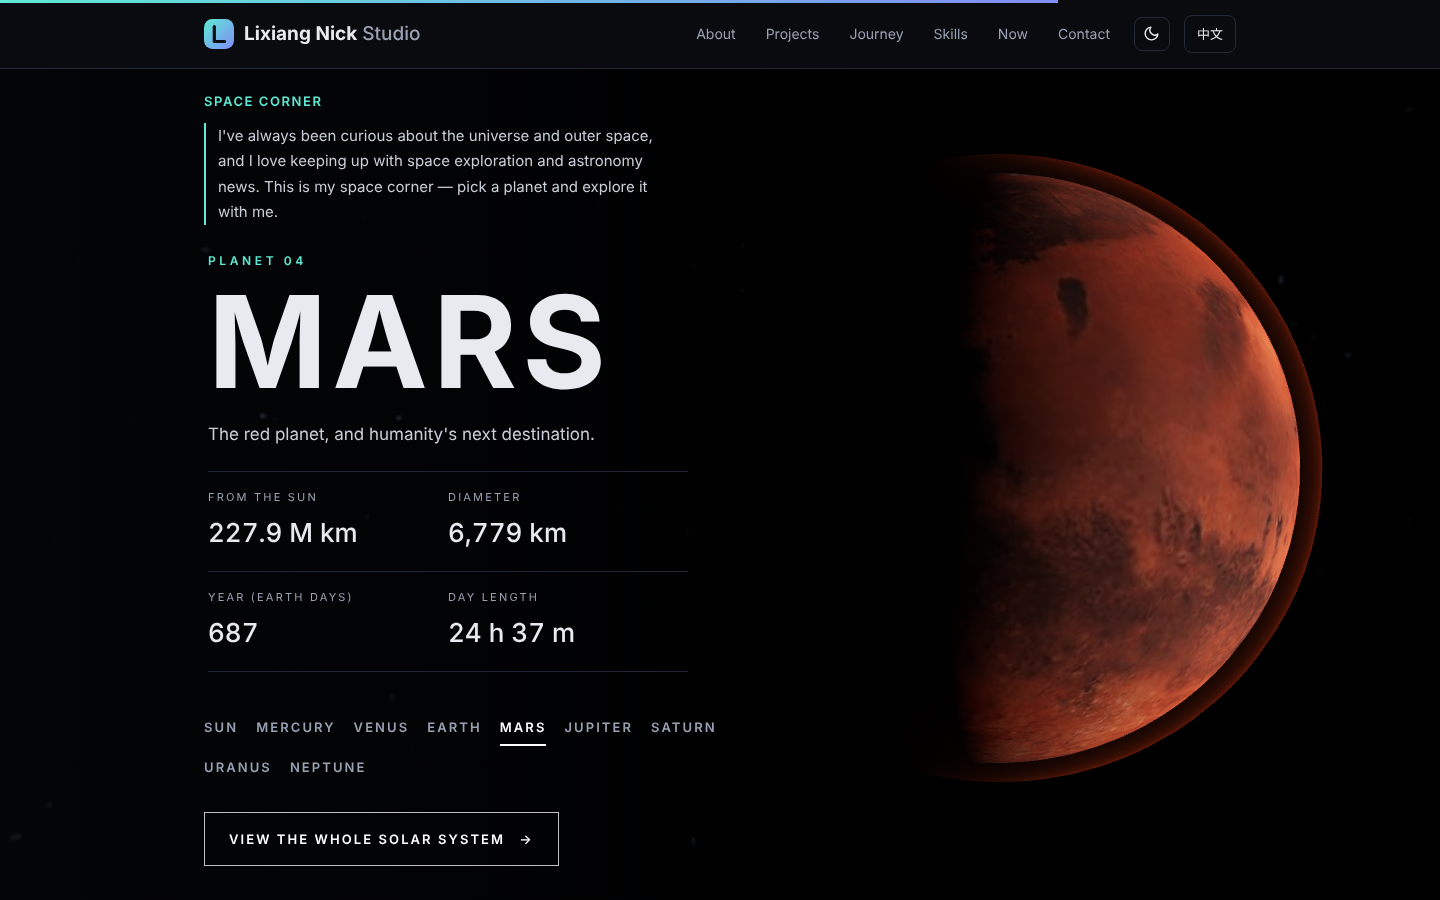
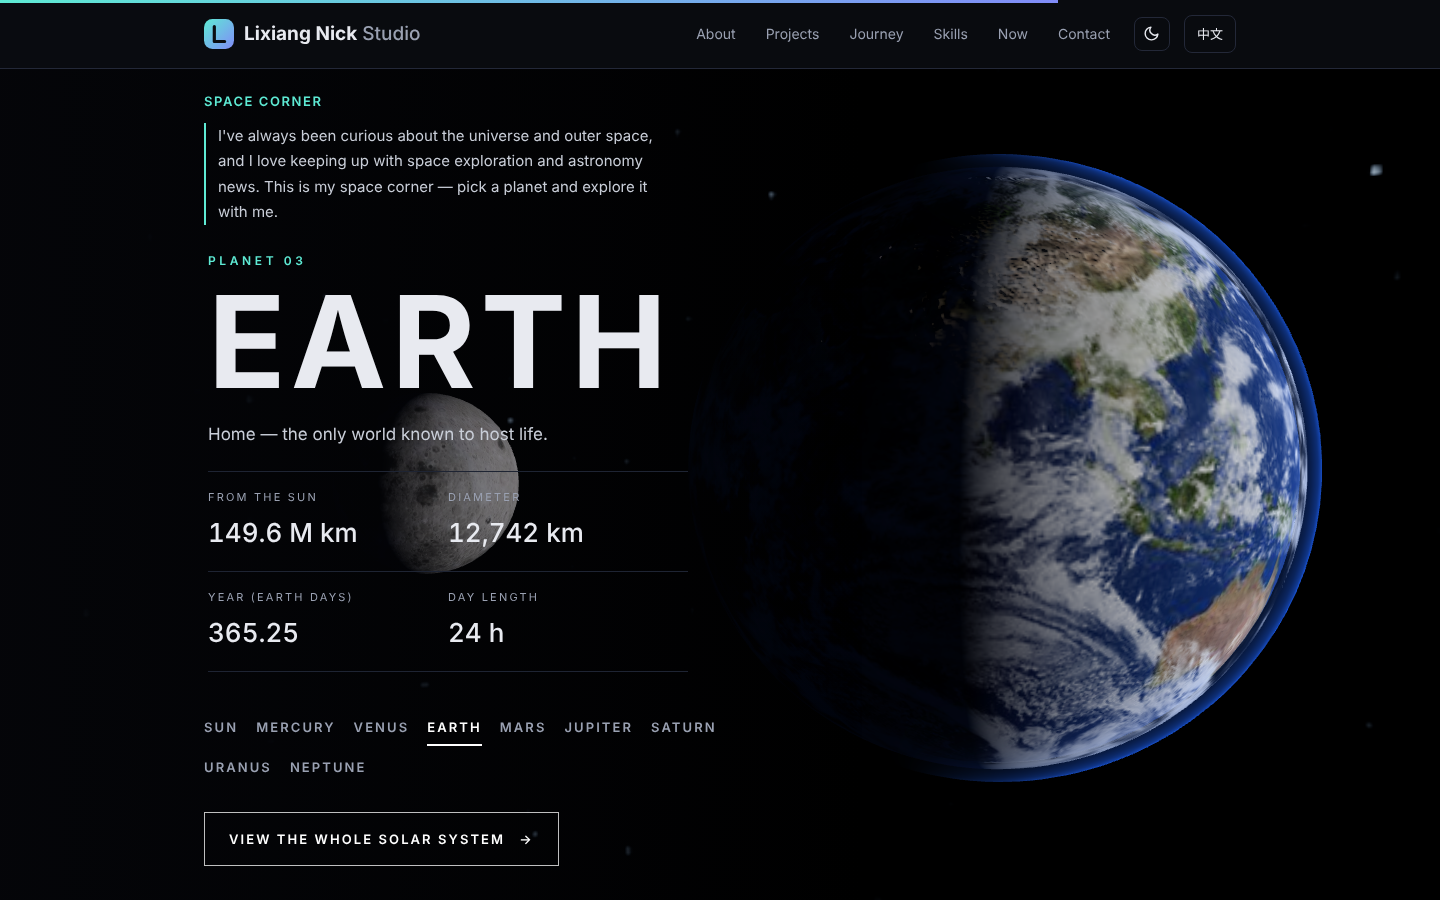
Space section opens on Earth; keep the Moon closer to Earth
Claude-Session: https://claude.ai/code/session_01EBZHduDSTzSEw5gpksr7mL

diff --git a/space3d.js b/space3d.js
@@ -71,7 +71,7 @@ function init() {
       const clouds = new THREE.Mesh(new THREE.SphereGeometry(r * 1.02, 64, 48), new THREE.MeshStandardMaterial({ color: 0xffffff, alphaMap: tl.load('tex/clouds.jpg'), transparent: true, depthWrite: false }));
       m.add(clouds); m.userData.clouds = clouds;
       const moon = new THREE.Mesh(new THREE.SphereGeometry(0.65, 32, 24), new THREE.MeshStandardMaterial({ map: tex('moon.jpg') }));
-      const mp = new THREE.Object3D(); mp.add(moon); moon.position.x = 4.5; m.add(mp); m.userData.moon = mp;
+      const mp = new THREE.Object3D(); mp.add(moon); moon.position.x = 3.4; mp.rotation.z = 0.35; m.add(mp); m.userData.moon = mp;
     }
     if (id === 'saturn') {
       const ring = new THREE.Mesh(new THREE.PlaneGeometry(r * 4.6, r * 4.6), new THREE.MeshStandardMaterial({ map: tex('saturn_ring.png'), transparent: true, side: THREE.DoubleSide, depthWrite: false, roughness: 1 }));
@@ -137,8 +137,8 @@ function init() {
   document.querySelectorAll('.psel').forEach((b) => b.onclick = () => focus(b.dataset.p === 'sun' ? sun : planets[b.dataset.p].mesh));
   addEventListener('keydown', (e) => { if (e.key === 'Escape' && sel) home(); });
   window.__space3d = { focus: (id) => focus(id === 'sun' ? sun : planets[id].mesh), home, screen: (id) => { const v = (id === 'sun' ? sun : planets[id].mesh).getWorldPosition(new THREE.Vector3()).project(camera); const r = renderer.domElement.getBoundingClientRect(); return [r.left + (v.x + 1) / 2 * r.width, r.top + (1 - v.y) / 2 * r.height]; } };
-  // start featured on Mars, already framed
-  { const v = featureView(planets.mars.mesh); sel = planets.mars.mesh; selP = 'mars'; box.classList.add('zoom'); controls.enabled = false; view = v; isolate(planets.mars.mesh); const [p0, t0] = v(); camera.position.copy(p0); controls.target.copy(t0); showInfo('mars'); }
+  // start featured on Earth, already framed
+  { const v = featureView(planets.earth.mesh); sel = planets.earth.mesh; selP = 'earth'; box.classList.add('zoom'); controls.enabled = false; view = v; isolate(planets.earth.mesh); const [p0, t0] = v(); camera.position.copy(p0); controls.target.copy(t0); showInfo('earth'); }
 
   // render loop (only while visible)
   const reduce = matchMedia('(prefers-reduced-motion: reduce)').matches;
